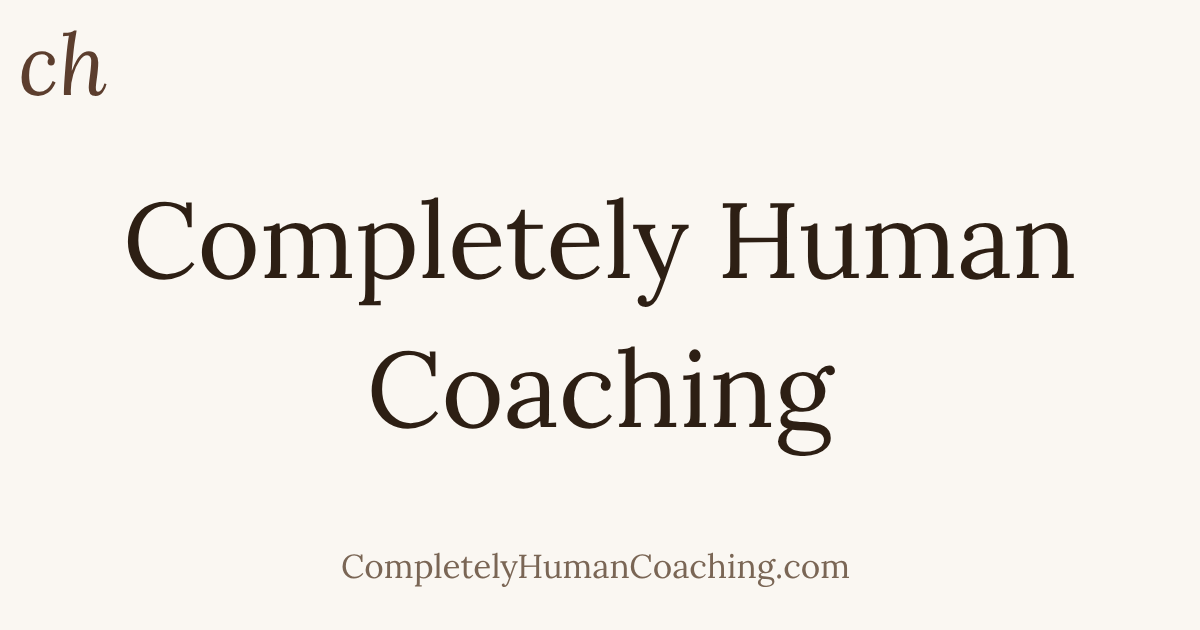
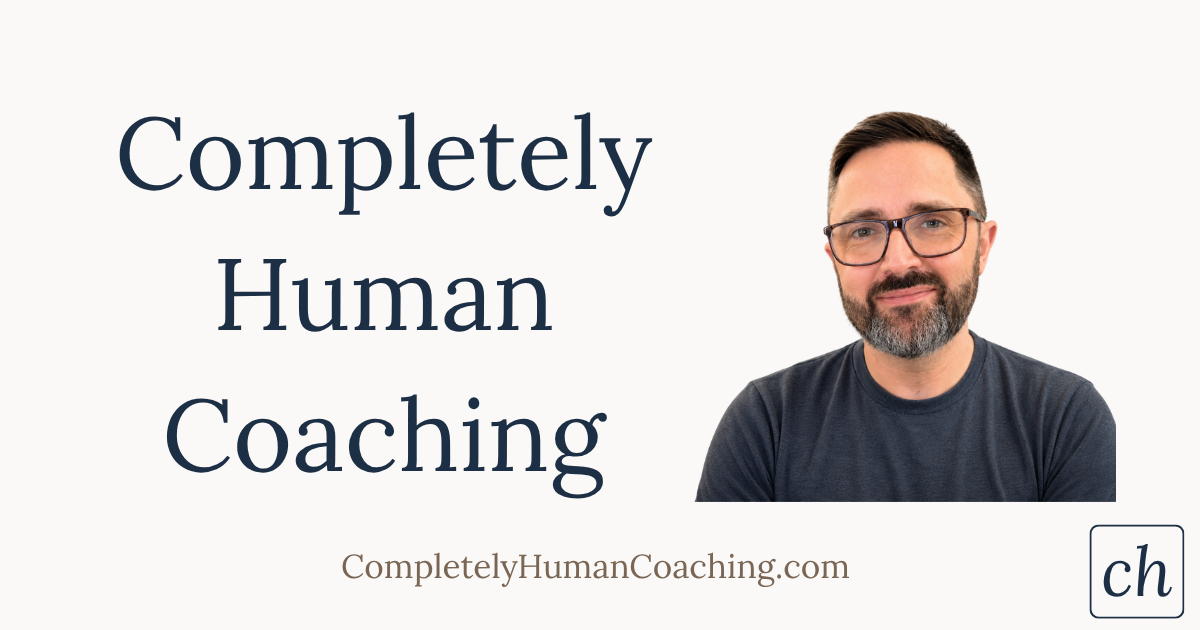
Use a single shared OG image across all pages
Replace og-image.png with updated design, point every page's
og_image at the root file, and add OG tags to the resources page.

diff --git a/resources/index.html b/resources/index.html
@@ -4,6 +4,10 @@ title: "Resources — Completely Human Coaching"
 description: "Client resources from Completely Human Coaching."
 stylesheet: "/resources/style.css"
 robots: "noindex, nofollow"
+og_title: "Resources — Completely Human Coaching"
+og_description: "Client resources from Completely Human Coaching."
+og_url: "https://completelyhumancoaching.com/resources/"
+og_image: "https://completelyhumancoaching.com/og-image.png"
 ---
 
   <section class="page-section">

diff --git a/schedule/index.html b/schedule/index.html
@@ -6,7 +6,7 @@ stylesheet: "/schedule/style.css"
 og_title: "Schedule — Completely Human Coaching"
 og_description: "Book a call or session with Dan Bough at Completely Human Coaching."
 og_url: "https://completelyhumancoaching.com/schedule/"
-og_image: "https://completelyhumancoaching.com/schedule/og-image.png"
+og_image: "https://completelyhumancoaching.com/og-image.png"
 ---
 
   <section class="page-section">
